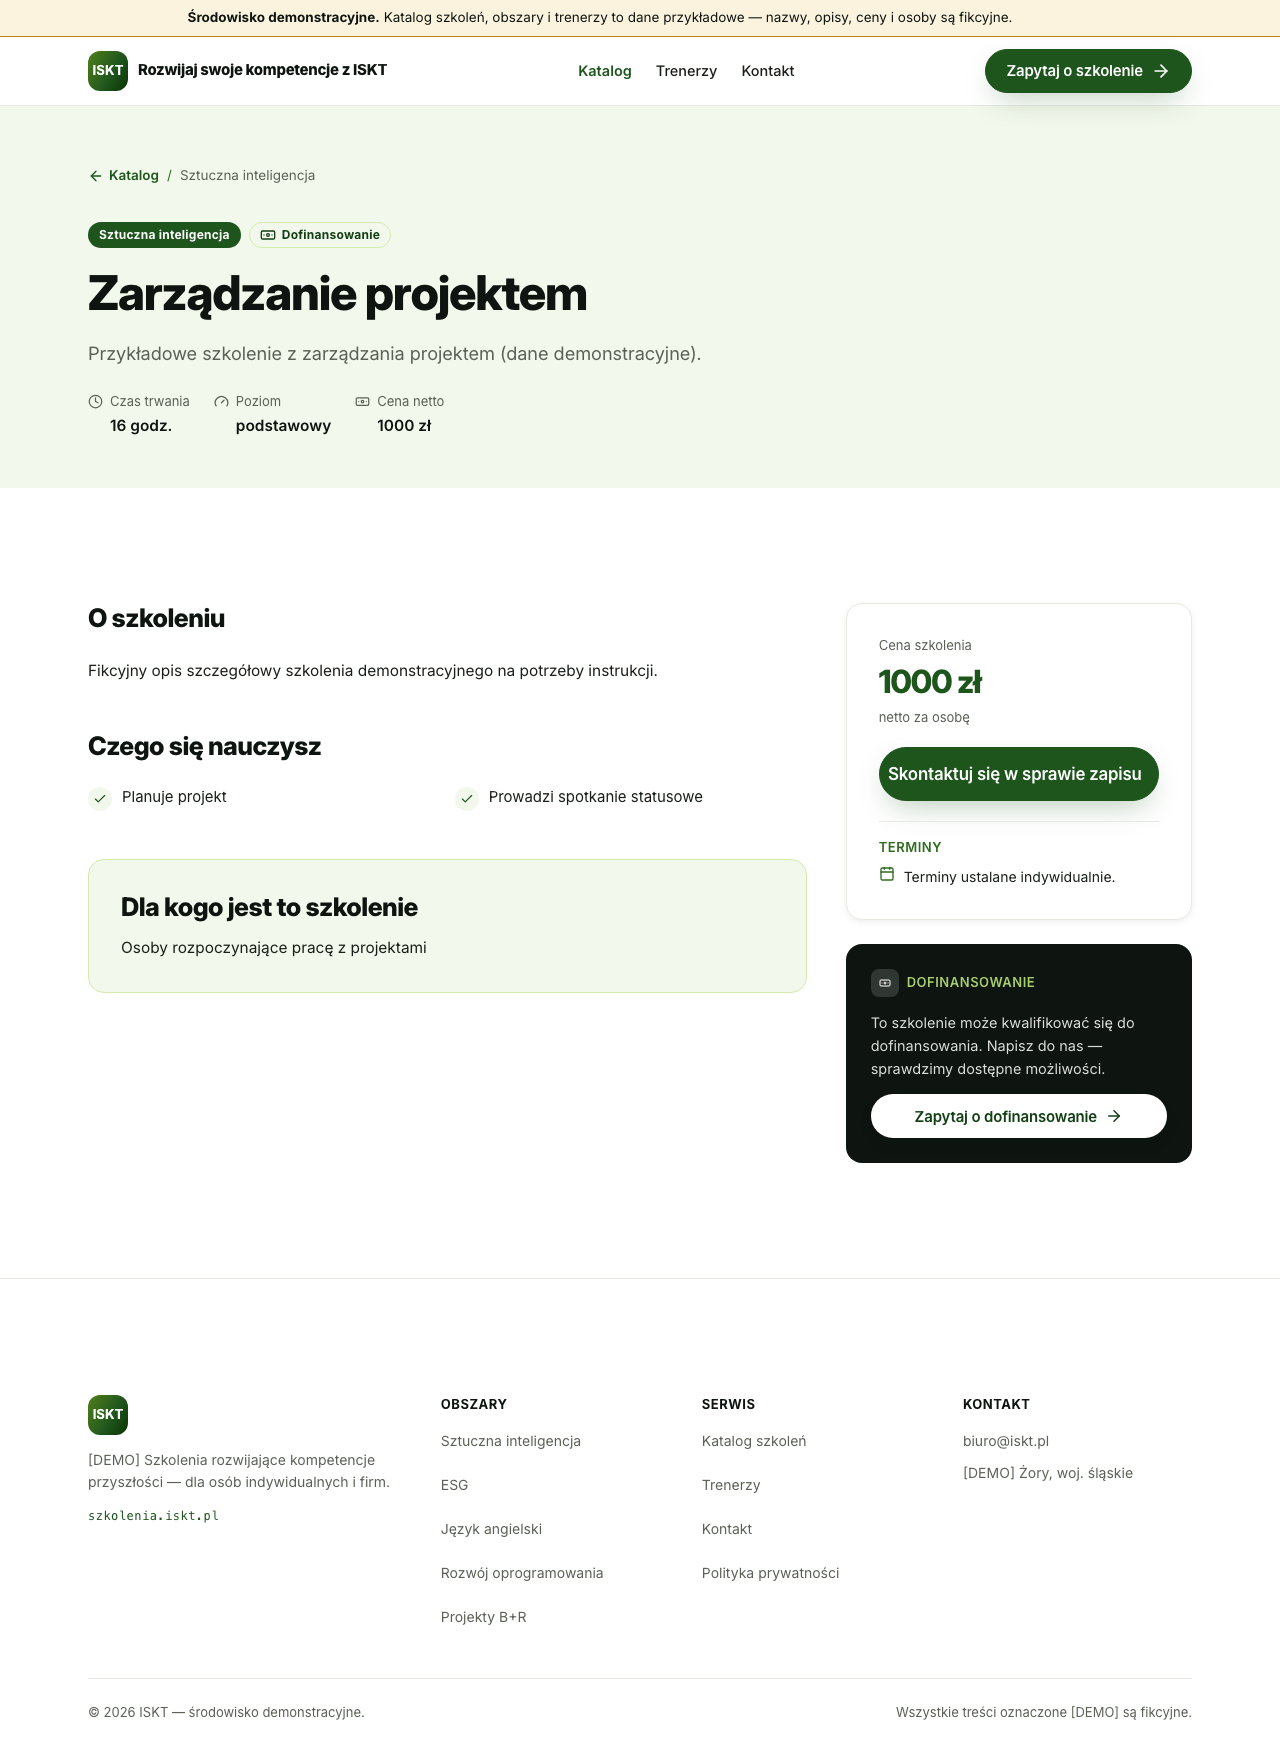
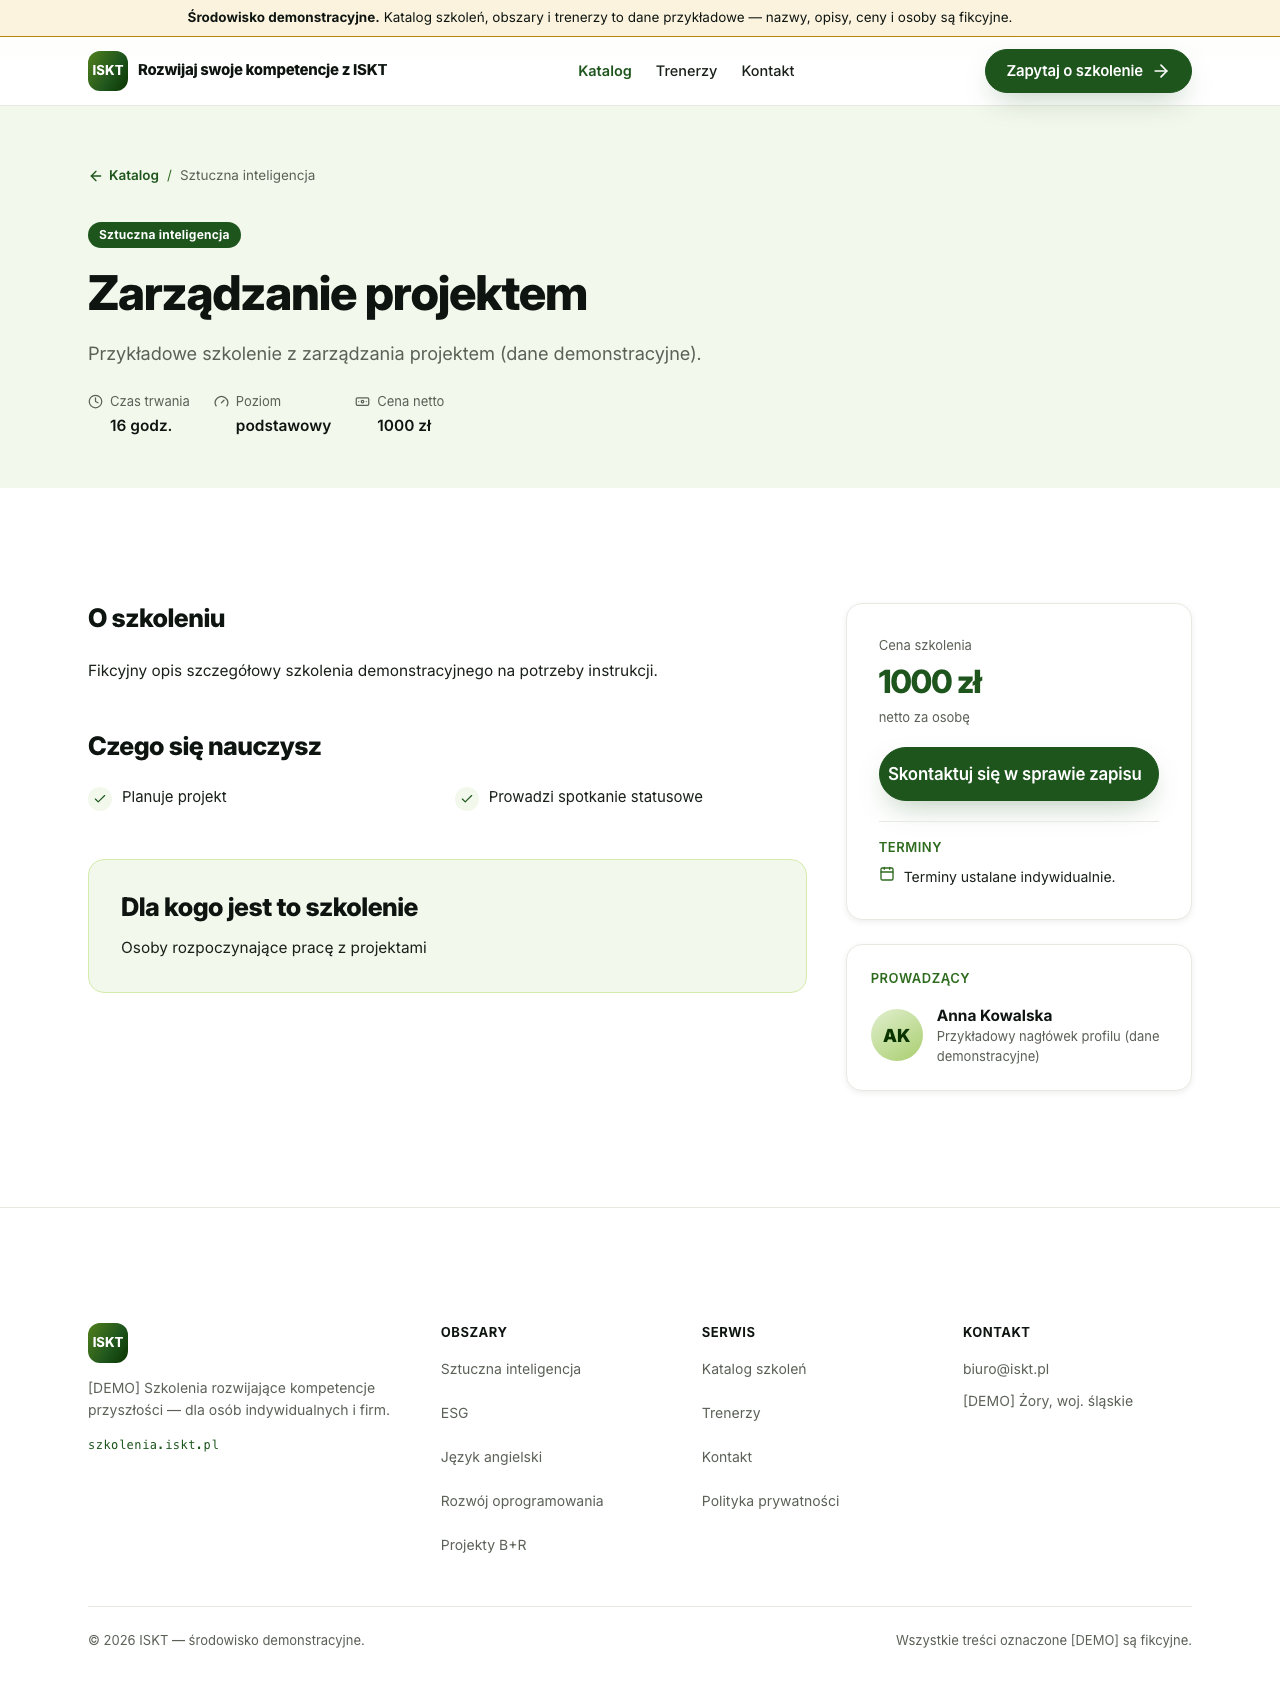
fix(isk-429): zrzut 08/10 zaznaczal dofinansowanie zamiast trenera (ISK-429)
`getByRole("checkbox").first()` w kroku „Dodaj szkolenie" trafial NIE
w sekcje „Trenerzy", tylko w lezace wyzej pole „Dostepne dofinansowanie".
Skutki byly trzy i zaden nie przewracal testu:

  * zrzuty 08 i 10 pokazywaly wszystkie trzy checkboxy trenerow puste,
    czyli dokladnie odwrotnosc tego, co obiecuje komentarz obok („zrzut
    pokazuje sekcje Trenerzy w uzyciu") i co mowi krok 10 instrukcji;
  * zrzut 12 dostawal czarny kafel „DOFINANSOWANIE", ktorego ten krok
    instrukcji w ogole nie omawia — czytelnik widzial na obrazku element
    nieobecny w tekscie;
  * powiazanie szkolenie-trener nie powstawalo, wiec publiczna strona
    szkolenia nie miala sekcji „Prowadzacy".

Locator celuje teraz po nazwisku (`{ name: TRAINER.fullName }`), wiec
wiaze sie z konkretna osoba zamiast z pozycja w DOM. Po poprawce zrzut 08
pokazuje zaznaczona „Anne Kowalska" przy pustym dofinansowaniu, a zrzut 12
kafel „PROWADZACY" zamiast „DOFINANSOWANIE" (1763 -> 1691 px wysokosci).

Zmierzone na lokalnym stacku (porty 54401/54402, build produkcyjny):
5/5 testow zielonych, `tsc --noEmit` i `eslint --max-warnings=0` czyste,
po przebiegu zero wierszy demonstracyjnych w bazie.

Nadpisane sa tylko 08, 10 i 12 — pozostale 15 zrzutow z `f8702e8` zostaje
bez zmian (renderuja sie bajt w bajt tak samo).

diff --git a/tests/e2e/zrzuty-instrukcji.spec.ts b/tests/e2e/zrzuty-instrukcji.spec.ts
@@ -299,8 +299,15 @@ test.describe("Zrzuty do instrukcji administratora", () => {
     await page.getByLabel("Dla kogo").fill(TRAINING.audience);
     // Zaznaczamy trenera, zeby zrzut pokazywal sekcje „Trenerzy" w uzyciu —
     // krok 10 instrukcji mowi wprost, ze mozna wybrac wiecej niz jedna osobe.
-    const trainerCheckbox = page.getByRole("checkbox").first();
-    if (await trainerCheckbox.isVisible()) await trainerCheckbox.check();
+    //
+    // Celujemy PO NAZWISKU, a nie `getByRole("checkbox").first()`. Pierwszy
+    // checkbox w formularzu to „Dostepne dofinansowanie", ktore lezy WYZEJ niz
+    // sekcja „Trenerzy" — wariant `.first()` zaznaczal wiec dofinansowanie,
+    // zostawiajac wszystkich trenerow pustych. Test przechodzil, a zrzuty 08/10
+    // pokazywaly odwrotnosc tego, co opisuje komentarz, i doklejaly do zrzutu 12
+    // kafel „DOFINANSOWANIE", ktorego krok instrukcji w ogole nie omawia
+    // (zmierzone na zrzucie 08, ISK-429).
+    await page.getByRole("checkbox", { name: TRAINER.fullName }).check();
     await shoot(page, SHOT.trainingNew);
 
     await page.getByRole("button", { name: "Zapisz szkolenie" }).click();
